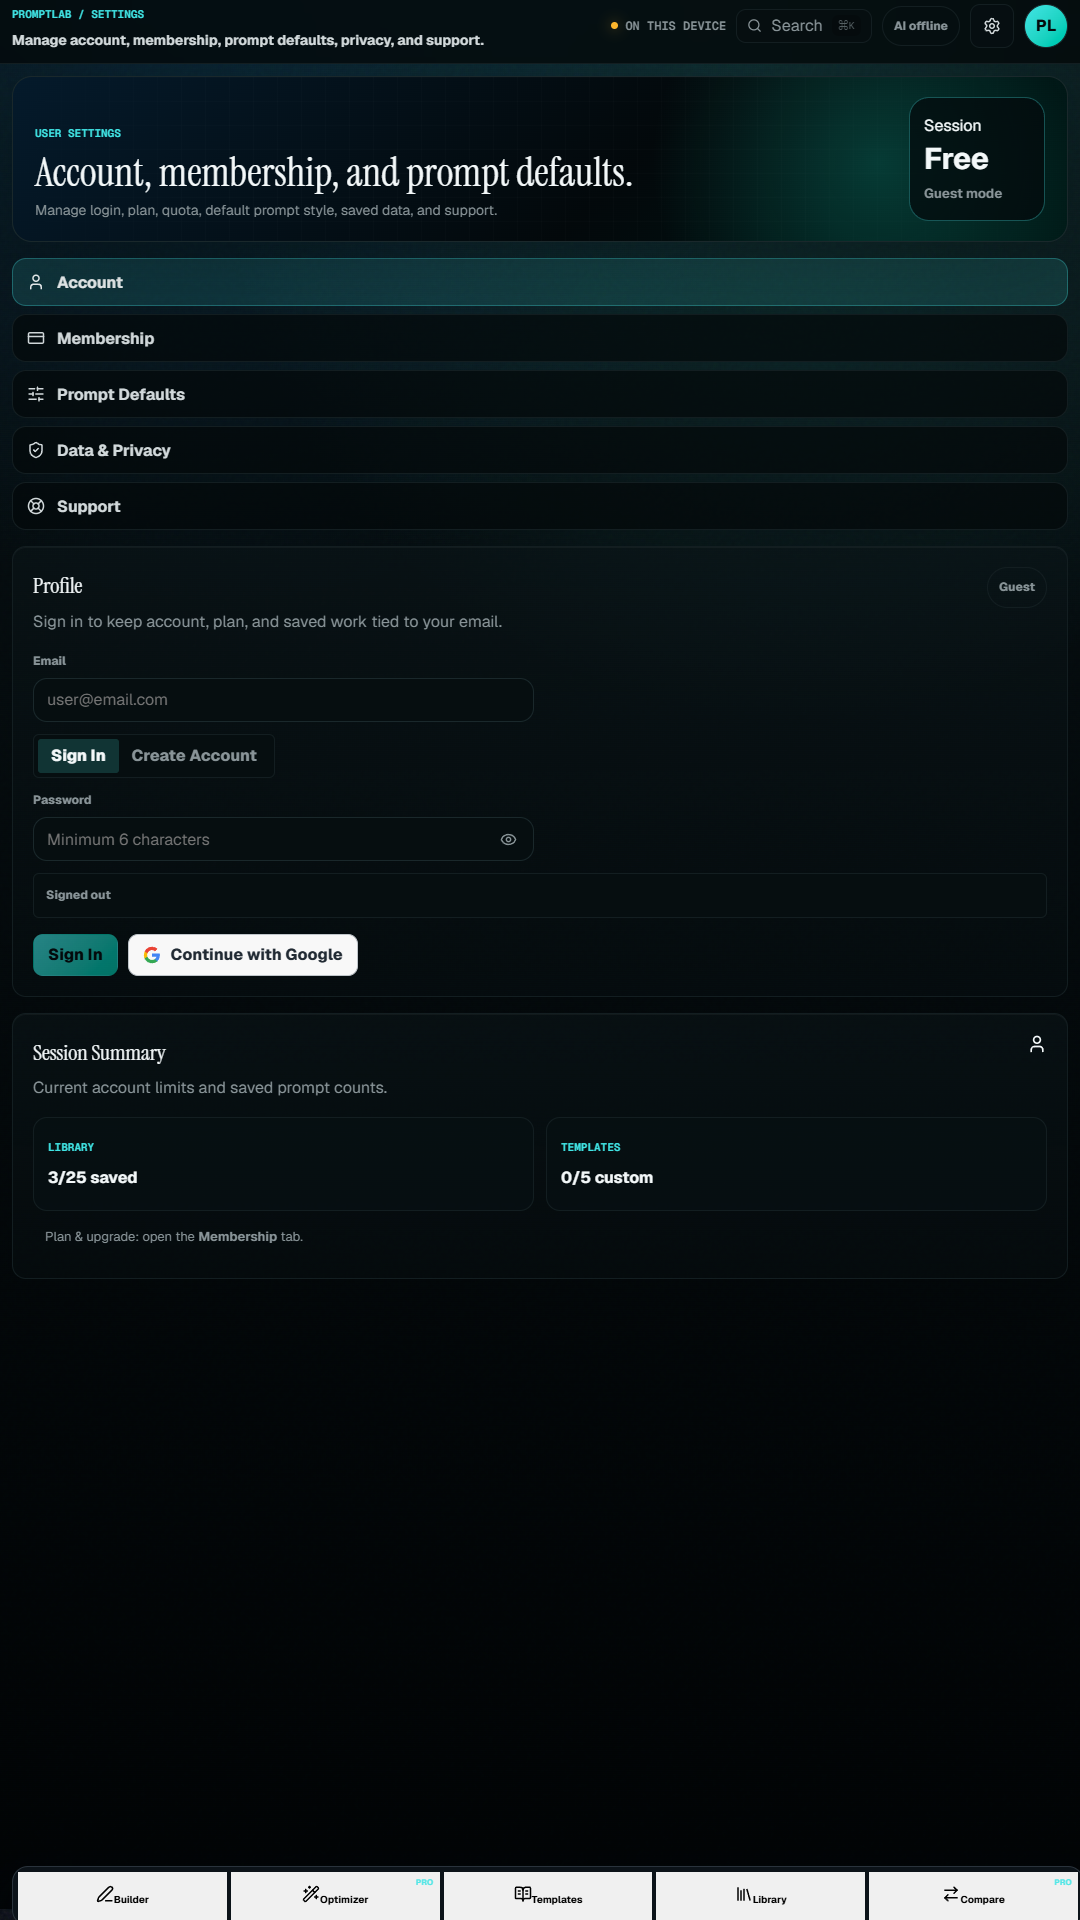
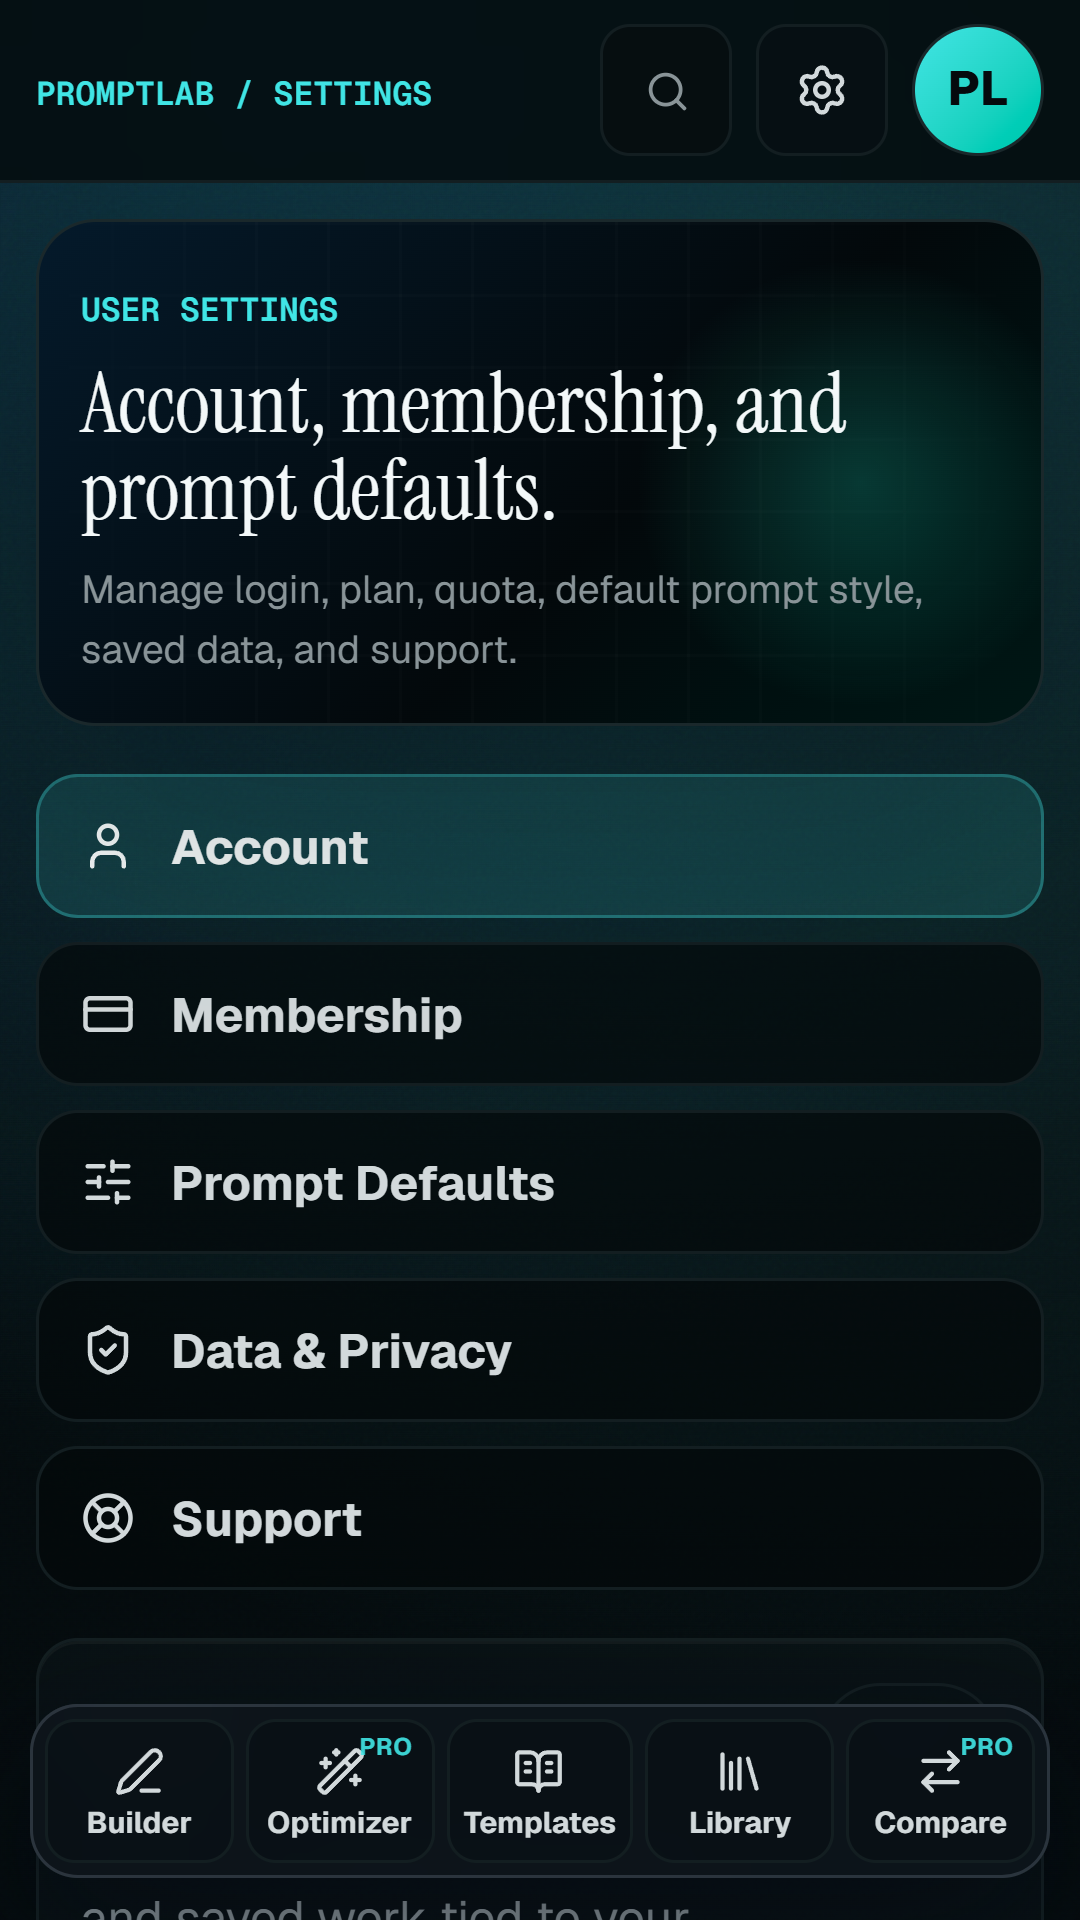
fix: validate Play Store mobile captures

diff --git a/test/playstore-assets.test.js b/test/playstore-assets.test.js
@@ -36,6 +36,37 @@ test("capture script targets the current five-tab V2 navigation and all six surf
   assert.doesNotMatch(source, /\.bottom-nav(?![\w-])/);
 });
 
+test("capture validates every surface and bottom navigation before writing PNGs", async () => {
+  const source = await readFile(join(root, "scripts", "capture-playstore-screenshots.mjs"), "utf8");
+  assert.match(source, /const SURFACE_EXPECTATIONS =/);
+  assert.match(source, /async function assertSurfaceReady/);
+  assert.match(source, /await assertSurfaceReady\(page, name\)/);
+  assert.match(source, /document\.fonts\.ready/);
+  assert.match(source, /requestAnimationFrame/);
+  assert.match(source, /contrastRatio/);
+  assert.match(source, /accessibleName/);
+  assert.match(source, /iconVisible/);
+  assert.match(source, /insideViewport/);
+  assert.match(source, /receivesPointer/);
+  assert.match(source, /labelInsideButton/);
+});
+
+test("capture uses natural responsive CSS at a 1080x1920 device viewport", async () => {
+  const source = await readFile(join(root, "scripts", "capture-playstore-screenshots.mjs"), "utf8");
+  assert.match(source, /viewport: \{ width: 360, height: 640 \}/);
+  assert.match(source, /deviceScaleFactor: 3/);
+  assert.doesNotMatch(source, /\.v2-shell \{/);
+  assert.doesNotMatch(source, /grid-template-columns: repeat\(5/);
+});
+
+test("production CSS gives bottom navigation buttons explicit V2 styling", async () => {
+  const css = await readFile(join(root, "src", "styles.css"), "utf8");
+  assert.match(css, /\.v2-nav button,\s*\.v2-bottom-nav button,/);
+  assert.match(css, /\.v2-nav button,\s*\.v2-bottom-nav button \{[\s\S]*display: flex;/);
+  assert.match(css, /@media \(max-width: 1180px\) \{[\s\S]*?\.v2-shell > \.v2-main \{[\s\S]*?z-index: auto;[\s\S]*?\.v2-bottom-nav \{[\s\S]*?z-index: 1000;/);
+  assert.match(css, /\.v2-bottom-nav button \{[\s\S]*?flex-direction: column;[\s\S]*?font-size: 10px;/);
+});
+
 test("production entry graph stays within the documented initial JS and CSS budget", async () => {
   const config = await readFile(join(root, "vite.config.js"), "utf8");
   assert.match(config, /INITIAL_JS_BUDGET_KB = 700/);

diff --git a/src/styles.css b/src/styles.css
@@ -326,6 +326,7 @@ button {
 }
 
 .v2-nav button,
+.v2-bottom-nav button,
 .v2-icon-btn,
 .v2-btn,
 .v2-chip,
@@ -338,7 +339,8 @@ button {
   transition: transform 160ms ease, border-color 160ms ease, background 160ms ease;
 }
 
-.v2-nav button {
+.v2-nav button,
+.v2-bottom-nav button {
   min-height: 46px;
   display: flex;
   align-items: center;
@@ -358,6 +360,7 @@ button {
 }
 
 .v2-nav button.active,
+.v2-bottom-nav button.active,
 .v2-chip.active {
   color: var(--fg);
   border-color: var(--ac-line);
@@ -2531,8 +2534,9 @@ button {
     display: none;
   }
 
-  .v2-main {
+  .v2-shell > .v2-main {
     padding-bottom: 118px;
+    z-index: auto;
   }
 
   .v2-bottom-nav {
@@ -2540,7 +2544,7 @@ button {
     left: 12px;
     right: 12px;
     bottom: max(12px, env(safe-area-inset-bottom));
-    z-index: 40;
+    z-index: 1000;
     display: grid;
     grid-template-columns: repeat(5, minmax(0, 1fr));
     gap: 4px;
@@ -2555,7 +2559,11 @@ button {
   .v2-bottom-nav button {
     position: relative;
     min-height: 48px;
-    font-size: 11px;
+    flex-direction: column;
+    justify-content: center;
+    padding: 4px 2px;
+    font-size: 10px;
+    line-height: 1.1;
     font-weight: 700;
     gap: 4px;
   }
@@ -4377,12 +4385,13 @@ pre {
   .v2-bottom-nav button {
     min-height: 48px;
     gap: 3px;
-    font-size: 11px;
+    font-size: 10px;
   }
 
   .v2-bottom-nav svg {
     width: 17px;
     height: 17px;
+    flex-shrink: 0;
   }
 }
 
